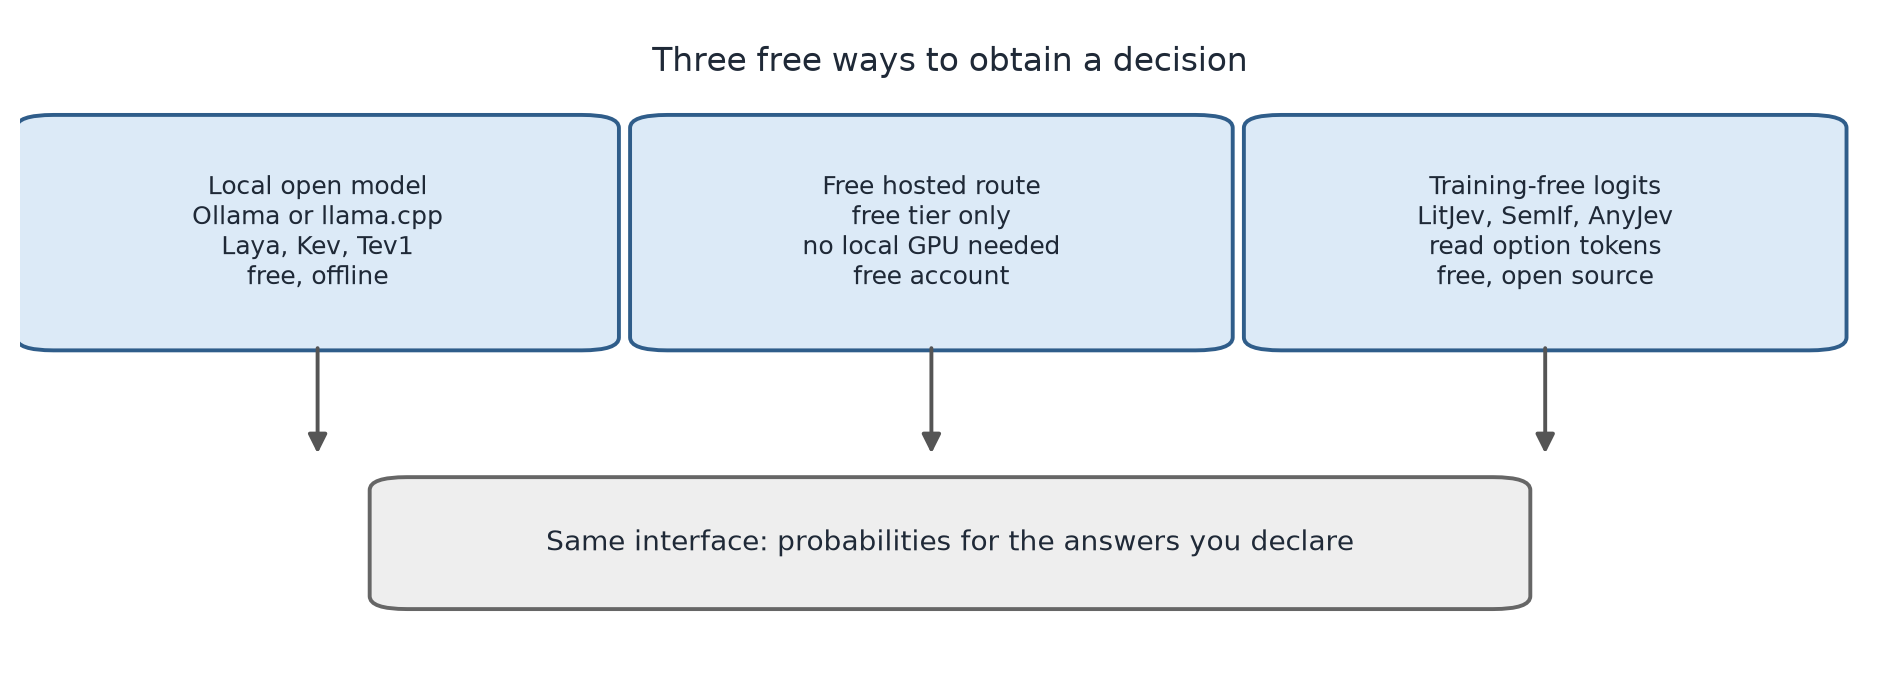
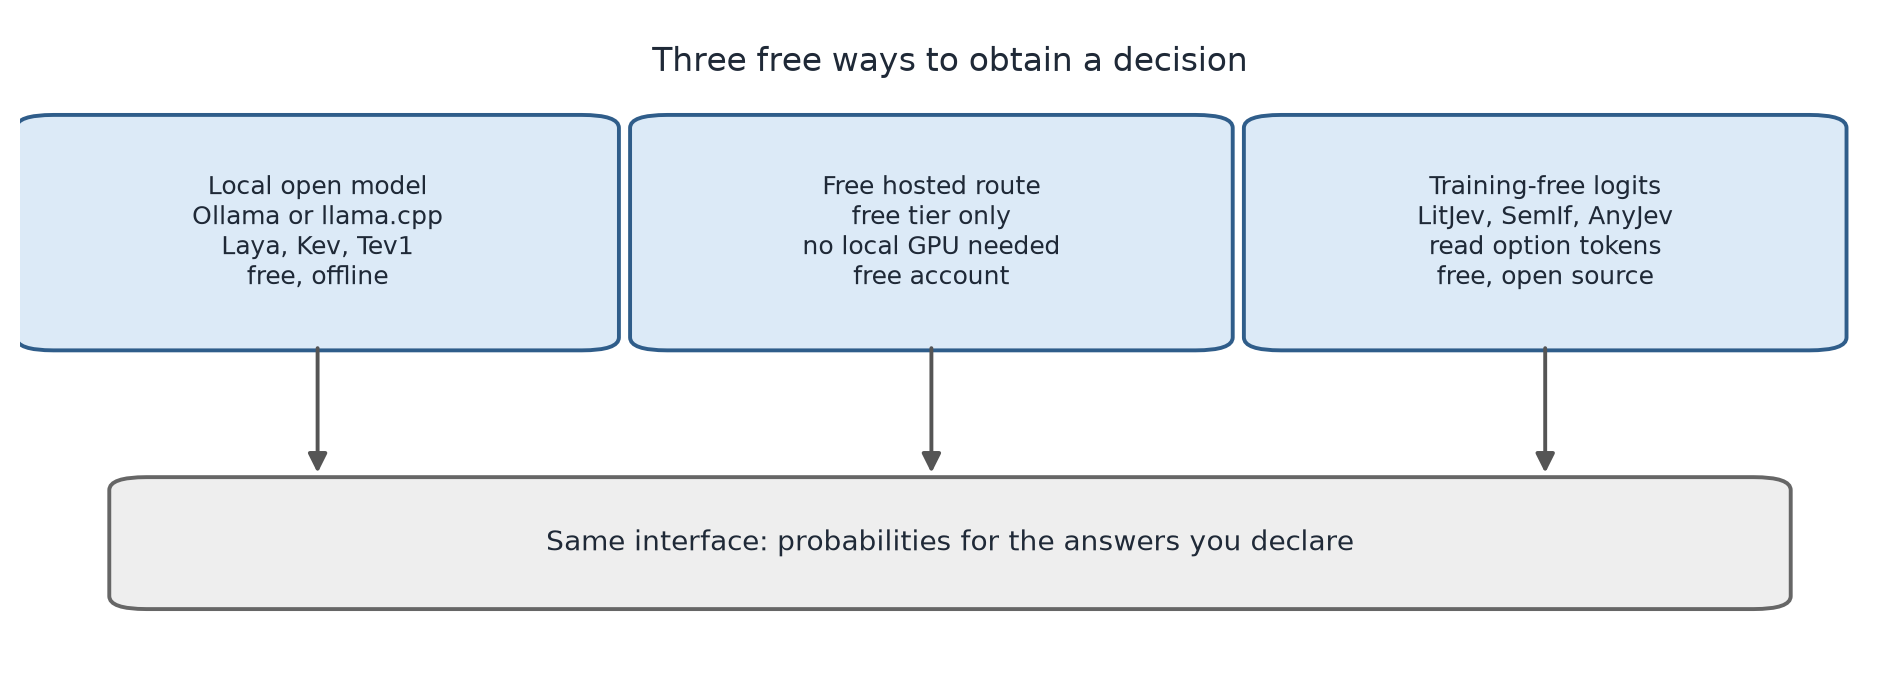
Improve notebook plots after visual review

diff --git a/scripts/make_figures.py b/scripts/make_figures.py
@@ -156,12 +156,12 @@ def backend_choices():
     ]
     for x, text in items:
         box(ax, x, 0.50, 0.30, 0.34, text, size=9)
-        arrow(ax, (x + 0.15, 0.50), (x + 0.15, 0.32))
+        arrow(ax, (x + 0.15, 0.50), (x + 0.15, 0.29))
     box(
         ax,
-        0.20,
+        0.06,
         0.10,
-        0.60,
+        0.88,
         0.18,
         "Same interface: probabilities for the answers you declare",
         face=GRAY,
@@ -214,6 +214,7 @@ def training_pipeline():
     box(ax, 0.55, 0.10, 0.18, 0.18, "Trainer\none epoch", face=GRAY, edge=GRAY_EDGE, size=9)
     arrow(ax, (0.48, 0.19), (0.55, 0.19))
     arrow(ax, (0.64, 0.28), (0.64, 0.42))
+    ax.text(0.66, 0.35, "answer-token loss", fontsize=9, color=TEXT, ha="left")
     save(fig, "training_pipeline.png")
 
 
